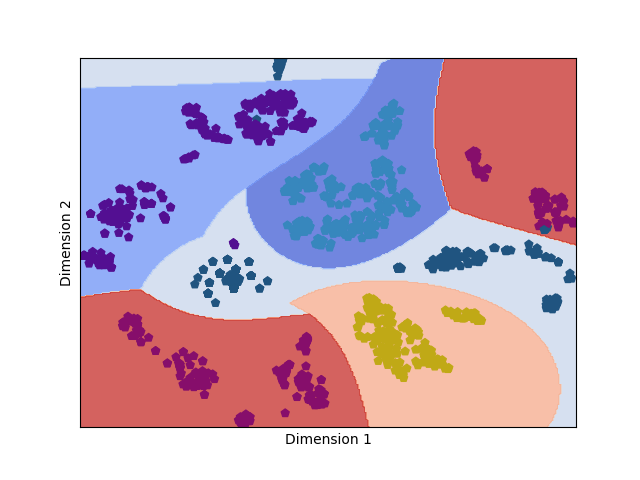
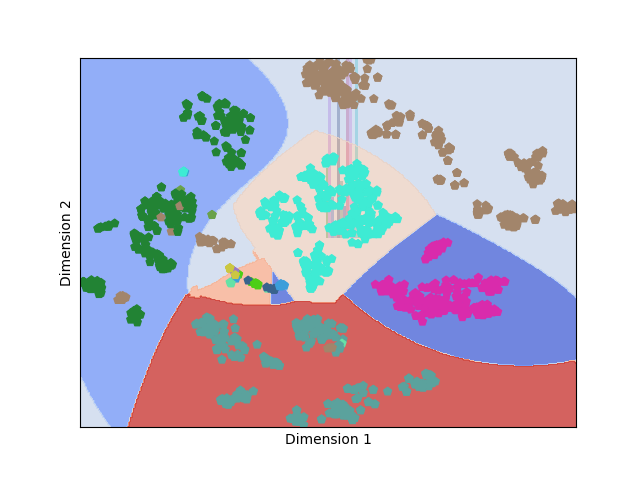
Generate images

diff --git a/requestBDD.py b/requestBDD.py
@@ -2,7 +2,7 @@ import sys
 import os
 package_directory = os.path.dirname(os.path.abspath(__file__))
 sys.path.append('/var/fantasiapp/batiUni/middle/')
-from bdd import DBConnector, executeRequest
+from bdd import DBConnector
 sireneConnector = DBConnector('Sirene')
 
 

diff --git a/visualization.py b/visualization.py
@@ -1,5 +1,6 @@
 from clustering import *
 from wordcloud import WordCloud
+import matplotlib.pyplot as plt
 
 
 '''
@@ -94,3 +95,6 @@ def visualizeSVM():
     plt.yticks(())
 
     plt.savefig('./saves/svm.png')
+
+visualizePopulation()
+visualizeSVM()
